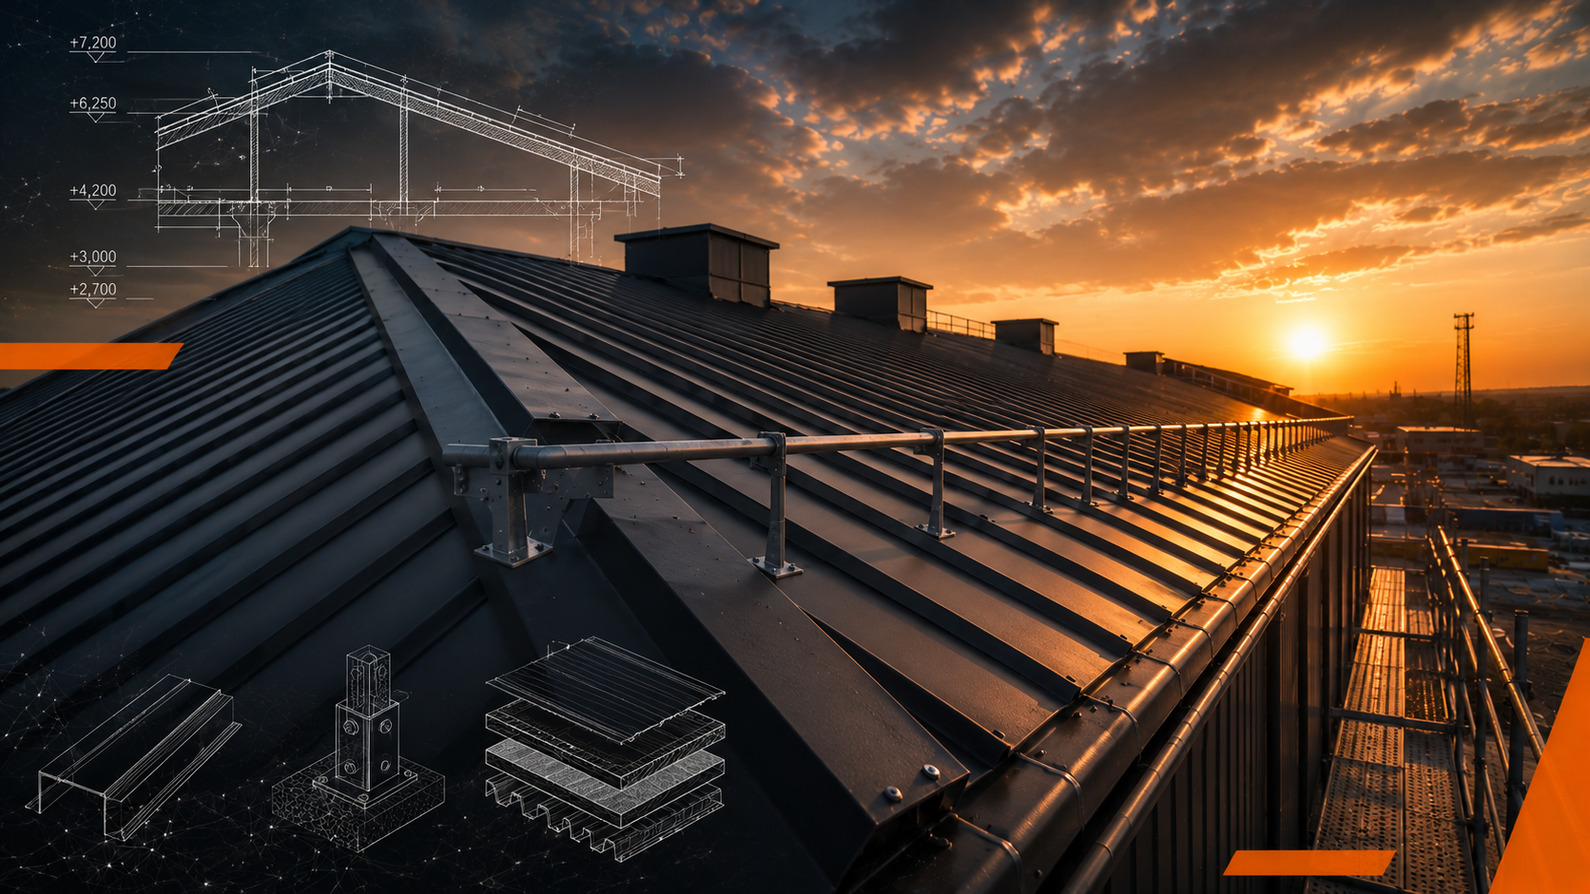
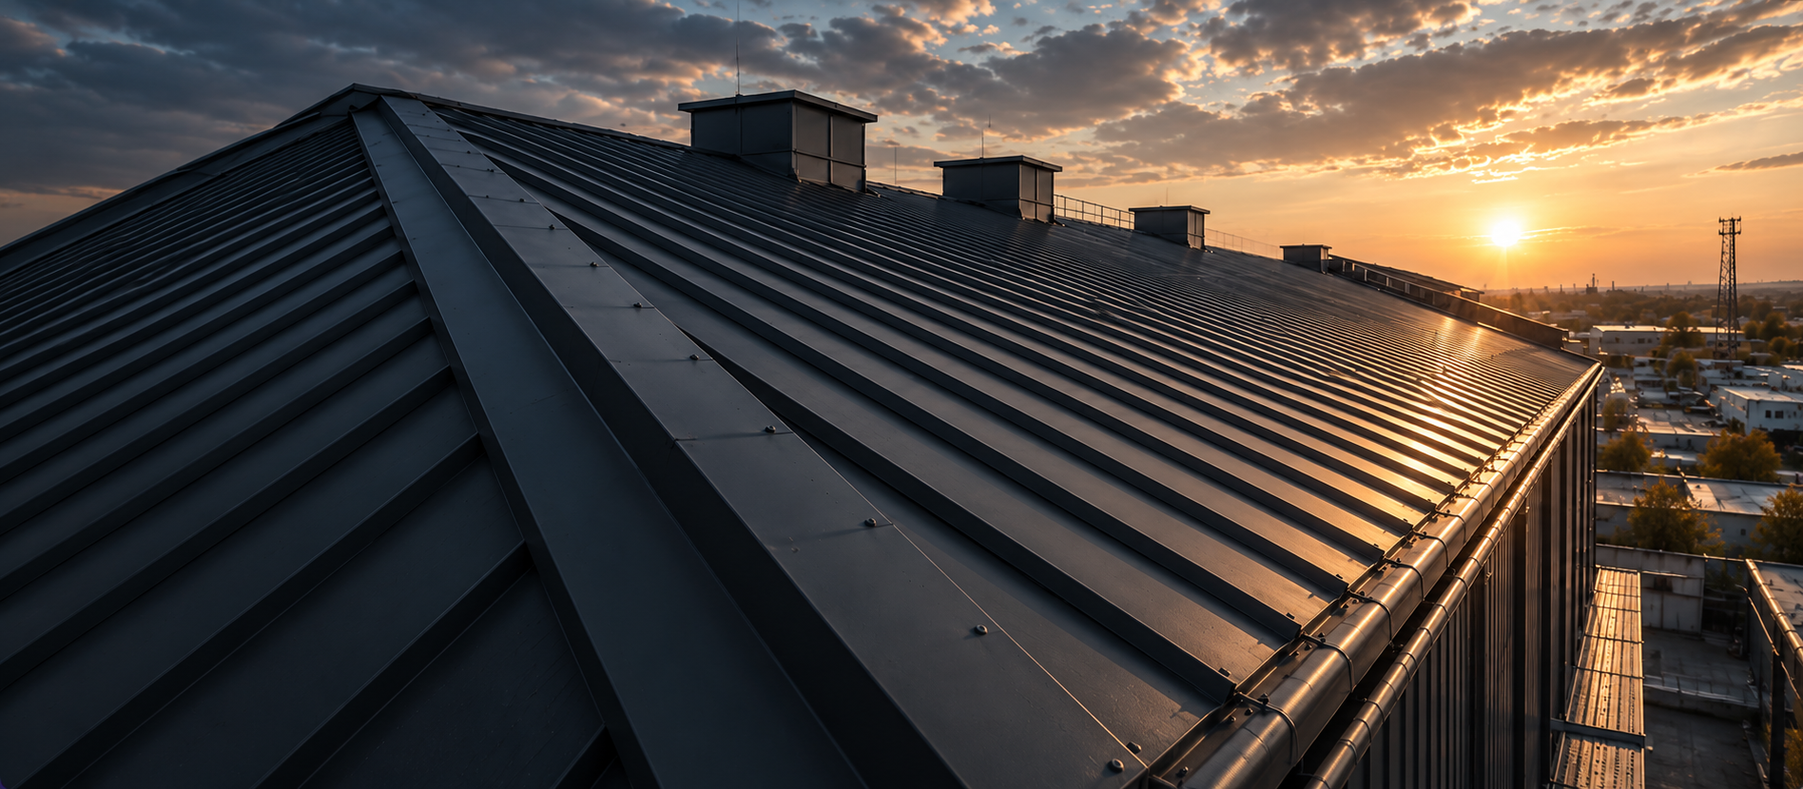
Add clean responsive hero renders to /napryamky (#155)
* feat(directions): add clean responsive hero photographs

* fix(directions): keep hangar roof apex in frame

* test: refresh reviewed visual baselines and verify responsive heroes

* test: wait for hydrated and fully painted hero slides

diff --git a/tests/e2e/directions-hero-sequence.spec.ts b/tests/e2e/directions-hero-sequence.spec.ts
@@ -16,9 +16,13 @@ test('directions static hero sequence crossfades in the approved order without v
     }
   });
 
+  await page.clock.install();
   await page.goto('/napryamky', { waitUntil: 'load' });
-
   const hero = page.locator('.directions-subhero');
+  // Deferred loading starts after hydration, which can take longer than the old 2 s
+  // source assertion under parallel load. Freeze only once the real carousel is ready.
+  await expect(hero.getByRole('button', { name: 'Пауза показу напрямів', exact: true })).toBeVisible();
+  await page.clock.pauseAt(await page.evaluate(() => Date.now() + 1000));
   const frames = hero.locator('img.directions-hero-sequence-image');
   await expect(frames).toHaveCount(5);
   await expect(hero.locator('video')).toHaveCount(0);
@@ -41,10 +45,10 @@ test('directions static hero sequence crossfades in the approved order without v
     null,
   ]);
 
-  // One slide lasts 6 s (UX pass 2026-10), so the second one is active within ~9 s.
+  // Advance one complete slide interval without depending on the machine's speed.
+  await page.clock.fastForward(6000);
   await expect.poll(
     () => frames.evaluateAll((images) => images.map((image) => image.classList.contains('is-active'))),
-    { timeout: 9_000 },
   ).toEqual([false, true, false, false, false]);
 
   // By the time slide 1 becomes active, slide 2 should already be unlocked one step ahead of
@@ -88,3 +92,79 @@ test('directions static hero sequence remains on the first image for reduced mot
       null,
     ]);
 });
+
+// Exercise actual decoded images, including later slides: a missing hashed variant or a landscape
+// selected on a tall screen otherwise looks like a blank/soft background without any build error.
+for (const viewport of [
+  { width: 320, height: 568 },
+  { width: 375, height: 812 },
+  { width: 390, height: 844 },
+  { width: 430, height: 932 },
+  { width: 768, height: 1024 },
+  { width: 820, height: 1180 },
+  { width: 844, height: 390 },
+  { width: 1024, height: 768 },
+  { width: 1280, height: 720 },
+  { width: 1366, height: 657 },
+  { width: 1920, height: 1080 },
+  { width: 2560, height: 1080 },
+]) {
+  test(`all five hero photographs load and fit at ${viewport.width}x${viewport.height}`, async ({ page }, testInfo) => {
+    // Five full crossfades and native-size screenshots need more than a single-route budget.
+    test.setTimeout(60_000);
+    await page.setViewportSize(viewport);
+    await page.emulateMedia({ reducedMotion: 'no-preference' });
+    await page.clock.install();
+    await page.goto('/napryamky', { waitUntil: 'load' });
+
+    const hero = page.locator('.directions-subhero');
+    await expect(hero.getByRole('button', { name: 'Пауза показу напрямів', exact: true })).toBeVisible();
+    // Let hydration and deferred loading complete first, then freeze between explicit ticks:
+    // screenshot encoding must not advance the real-time carousel on slower CI machines.
+    await page.clock.pauseAt(await page.evaluate(() => Date.now() + 1000));
+    const necessaryCookies = page.getByRole('button', { name: 'Лише необхідні', exact: true });
+    if (await necessaryCookies.isVisible()) await necessaryCookies.click();
+    const frames = hero.locator('img.directions-hero-sequence-image');
+    const portrait = viewport.width <= 1050 && viewport.height >= viewport.width;
+
+    for (let index = 0; index < sequenceNames.length; index++) {
+      const frame = frames.nth(index);
+      await expect(frame).toHaveClass(/is-active/);
+      await expect.poll(() => frame.evaluate((image: HTMLImageElement) => image.complete && image.naturalWidth > 0)).toBe(true);
+      await frame.evaluate((image: HTMLImageElement) => image.decode());
+      // Loading and the active class alone can pass before the crossfade has painted.
+      await expect(frame).toHaveCSS('opacity', '1');
+      const source = await frame.evaluate((image: HTMLImageElement) => image.currentSrc);
+      expect(source).toContain(`directions-sequence-${sequenceNames[index]}-`);
+      expect(source.includes('-portrait-')).toBe(portrait);
+
+      const suffix = index === 0 ? '' : `-${sequenceNames[index]}`;
+      await page.screenshot({
+        path: testInfo.outputPath(`directions-${viewport.width}x${viewport.height}${suffix}.png`),
+        animations: 'disabled',
+        scale: 'css',
+      });
+      if (index < sequenceNames.length - 1) await page.clock.fastForward(6000);
+    }
+
+    expect(await page.evaluate(() => document.documentElement.scrollWidth <= window.innerWidth + 1)).toBe(true);
+    const heroBox = await hero.boundingBox();
+    for (const link of await hero.locator('.directions-hero-actions a:visible').all()) {
+      const box = await link.boundingBox();
+      expect(box).not.toBeNull();
+      expect(box!.x).toBeGreaterThanOrEqual(0);
+      expect(box!.x + box!.width).toBeLessThanOrEqual(viewport.width + 1);
+      expect(box!.y + box!.height).toBeLessThanOrEqual(heroBox!.y + heroBox!.height);
+    }
+    const pause = hero.locator('.hero-video-control');
+    expect((await pause.boundingBox())!.height).toBeGreaterThanOrEqual(44);
+    await pause.click();
+    await expect(pause).toHaveAccessibleName('Відтворити показ напрямів');
+    await page.clock.fastForward(12_000);
+    await expect(frames.last()).toHaveClass(/is-active/);
+    await pause.press('Space');
+    await expect(pause).toHaveAccessibleName('Пауза показу напрямів');
+    await page.clock.fastForward(6000);
+    await expect(frames.first()).toHaveClass(/is-active/);
+  });
+}

diff --git a/app/data/directionsHeroSequenceManifest.ts b/app/data/directionsHeroSequenceManifest.ts
@@ -1,47 +1,65 @@
 export type DirectionsHeroSequenceAsset = {
   fallbackSrc: string;
   srcSet: string;
+  portraitSrcSet: string;
+  width: number;
+  height: number;
   focalPosition: string;
   mobileFocalPosition: string;
 };
 
-const responsiveSrcSet = (name: string, variants: { w480: string; w768: string; w1200: string; w1536: string }) =>
-  [
-    `/media-responsive/directions-sequence-${name}-480w.${variants.w480}.webp 480w`,
-    `/media-responsive/directions-sequence-${name}-768w.${variants.w768}.webp 768w`,
-    `/media-responsive/directions-sequence-${name}-1200w.${variants.w1200}.webp 1200w`,
-    `/media-responsive/directions-sequence-${name}-1536w.${variants.w1536}.webp 1536w`,
-  ].join(', ');
+type ResponsiveVariants = readonly (readonly [width: number, hash: string])[];
+
+const responsiveSrcSet = (name: string, variants: ResponsiveVariants, portrait = false) =>
+  variants.map(([width, hash]) =>
+    `/media-responsive/directions-sequence-${name}${portrait ? '-portrait' : ''}-${width}w.${hash}.webp ${width}w`,
+  ).join(', ');
 
 export const directionsHeroSequenceAssets: readonly DirectionsHeroSequenceAsset[] = [
   {
-    fallbackSrc: '/media-responsive/directions-sequence-angary-1536w.ec149673.webp',
-    srcSet: responsiveSrcSet('angary', { w480: '6d4f7f9b', w768: 'c246316c', w1200: '16a5481c', w1536: 'ec149673' }),
-    focalPosition: '55% center',
-    mobileFocalPosition: '58% center',
+    fallbackSrc: '/media-responsive/directions-sequence-angary-1536w.3c8e8cc9.webp',
+    srcSet: responsiveSrcSet('angary', [[480, '94e4a740'], [768, 'ca3d62f7'], [1200, '452a338b'], [1536, '3c8e8cc9'], [1896, '050ba3f4']]),
+    portraitSrcSet: responsiveSrcSet('angary', [[320, '41c00eaa'], [480, 'eb1e77b6'], [622, '6e4983de']], true),
+    width: 1896,
+    height: 830,
+    // Preserve the sky above the roof apex when wide screens crop the image vertically.
+    focalPosition: '55% top',
+    mobileFocalPosition: '50% top',
   },
   {
-    fallbackSrc: '/media-responsive/directions-sequence-zernoskhovyshcha-1536w.f2e9e6ee.webp',
-    srcSet: responsiveSrcSet('zernoskhovyshcha', { w480: 'b0e41daa', w768: '6c117447', w1200: '3d667f36', w1536: 'f2e9e6ee' }),
-    focalPosition: '57% center',
-    mobileFocalPosition: '60% center',
+    fallbackSrc: '/media-responsive/directions-sequence-zernoskhovyshcha-1536w.6945f8a6.webp',
+    srcSet: responsiveSrcSet('zernoskhovyshcha', [[480, 'fa55a2fd'], [768, 'd080dd16'], [1200, '18ffadd1'], [1536, '6945f8a6'], [1897, 'ccffd996']]),
+    portraitSrcSet: responsiveSrcSet('zernoskhovyshcha', [[320, '0a144acc'], [480, '9510e977'], [622, '06076313']], true),
+    width: 1897,
+    height: 829,
+    focalPosition: '60% center',
+    mobileFocalPosition: '50% center',
   },
   {
-    fallbackSrc: '/media-responsive/directions-sequence-metalokonstruktsii-1536w.f68a46a9.webp',
-    srcSet: responsiveSrcSet('metalokonstruktsii', { w480: 'dae71d68', w768: 'a531b57e', w1200: '6871257a', w1536: 'f68a46a9' }),
-    focalPosition: '55% center',
-    mobileFocalPosition: '57% center',
+    fallbackSrc: '/media-responsive/directions-sequence-metalokonstruktsii-1536w.8a84480d.webp',
+    srcSet: responsiveSrcSet('metalokonstruktsii', [[480, '85ea0d2b'], [768, '9abe6e6d'], [1200, '33589eca'], [1536, '8a84480d'], [1896, '0ac262e3']]),
+    portraitSrcSet: responsiveSrcSet('metalokonstruktsii', [[320, 'b56d8ce5'], [480, '897afad8'], [622, 'd7fff708']], true),
+    width: 1896,
+    height: 830,
+    focalPosition: '58% center',
+    mobileFocalPosition: '50% center',
   },
   {
-    fallbackSrc: '/media-responsive/directions-sequence-betonni-roboty-1536w.4aea6812.webp',
-    srcSet: responsiveSrcSet('betonni-roboty', { w480: 'dda69ddd', w768: '376a40f4', w1200: '73b67512', w1536: '4aea6812' }),
-    focalPosition: '53% center',
-    mobileFocalPosition: '55% center',
+    fallbackSrc: '/media-responsive/directions-sequence-betonni-roboty-1536w.1a79bbe0.webp',
+    srcSet: responsiveSrcSet('betonni-roboty', [[480, '3adf44c0'], [768, 'ad38b775'], [1200, '87a74886'], [1536, '1a79bbe0'], [1896, '29919ad1']]),
+    portraitSrcSet: responsiveSrcSet('betonni-roboty', [[320, '20cf5818'], [480, '88e0e3eb'], [622, 'b8fd147d']], true),
+    width: 1896,
+    height: 830,
+    focalPosition: '72% center',
+    mobileFocalPosition: '50% center',
   },
   {
-    fallbackSrc: '/media-responsive/directions-sequence-pokrivelni-roboty-1536w.527623f0.webp',
-    srcSet: responsiveSrcSet('pokrivelni-roboty', { w480: 'a8d86378', w768: 'b79e923a', w1200: '40a54a55', w1536: '527623f0' }),
-    focalPosition: '55% center',
-    mobileFocalPosition: '58% center',
+    fallbackSrc: '/media-responsive/directions-sequence-pokrivelni-roboty-1536w.622e9f02.webp',
+    srcSet: responsiveSrcSet('pokrivelni-roboty', [[480, '33d6df46'], [768, '90478a2d'], [1200, 'cc2f8b08'], [1536, '622e9f02'], [1896, '6983fba3']]),
+    portraitSrcSet: responsiveSrcSet('pokrivelni-roboty', [[320, '7eb1ec0a'], [480, 'fa139c18'], [622, '642d338e']], true),
+    width: 1896,
+    height: 830,
+    focalPosition: '60% center',
+    mobileFocalPosition: '50% center',
   },
 ];

diff --git a/app/napryamky/directions.css b/app/napryamky/directions.css
@@ -11,11 +11,33 @@
 .directions-page .directions-subhero-side > p { max-width: 640px; color: color-mix(in srgb, var(--color-dark-text) 88%, transparent); font-size: var(--hero-lead); line-height: 1.7; }
 .directions-page .directions-hero-actions { gap: 18px 36px; margin-top: var(--hero-gap-actions); }
 .directions-page .directions-hero-actions :is(.subhero-side-cta, .text-link, .hero-call) { margin: 0; }
+/* The clean photographs carry the visual detail; no blueprint grid or blur over their geometry. */
+.directions-page .directions-hero-sequence-image { filter: saturate(.72) contrast(1.03); }
+/* Keep the hangar apex below the fixed header, as on the individual direction pages. */
+.directions-page .directions-hero-sequence-image[src*="directions-sequence-angary-"] {
+  top: 101px;
+  height: calc(100% - 101px);
+}
+@media (max-width: 760px) {
+  .directions-page .directions-hero-sequence-image[src*="directions-sequence-angary-"] {
+    top: 77px;
+    height: calc(100% - 77px);
+  }
+}
 /* Dark under the words on the left, the slide open on the right, a little shade at the top for the slide caption */
 .directions-page .directions-subhero .subhero-overlay {
   background:
-    linear-gradient(90deg, rgba(10, 11, 12, .92) 0%, rgba(10, 11, 12, .8) 42%, rgba(10, 11, 12, .34) 100%),
-    linear-gradient(0deg, rgba(10, 11, 12, .82) 0%, transparent 50%, rgba(10, 11, 12, .5) 100%);
+    linear-gradient(90deg, rgba(10, 11, 12, .9) 0%, rgba(10, 11, 12, .76) 40%, rgba(10, 11, 12, .28) 72%, rgba(10, 11, 12, .14) 100%),
+    linear-gradient(0deg, rgba(10, 11, 12, .76) 0%, transparent 50%, rgba(10, 11, 12, .38) 100%);
+}
+/* Portrait art direction preserves the subject and enough pixels for a tall phone/tablet hero.
+   Text spans the frame on these screens, so it needs shade across the entire image. */
+@media (max-width: 1050px) and (orientation: portrait) {
+  .directions-page .directions-subhero .subhero-overlay {
+    background:
+      linear-gradient(90deg, rgba(10, 11, 12, .64), rgba(10, 11, 12, .5)),
+      linear-gradient(180deg, rgba(10, 11, 12, .15) 0%, rgba(10, 11, 12, .32) 36%, rgba(10, 11, 12, .82) 100%);
+  }
 }
 /* Clear of the window's edges at every height: the hero standard (globals.css --hero-*) sizes by the window's height */
 /* Which direction the slide shows, top right: five bars (the current one filling for the slide's 6 s) and its name */

diff --git a/app/napryamky/page.tsx b/app/napryamky/page.tsx
@@ -4,6 +4,7 @@ import { ConversationSection } from '../components/ConversationSection';
 import { DirectionsCatalog, type CatalogItem } from '../components/directions/DirectionsCatalog';
 import { DirectionsKey } from '../components/home-v2/DirectionsKey';
 import { DirectionsHeroImageSequence } from '../components/DirectionsHeroImageSequence';
+import { directionsHeroSequenceAssets } from '../data/directionsHeroSequenceManifest';
 import { brandedTitle, createPageMetadata } from '../lib/seo';
 import { siteRoutes } from '../data/navigation';
 import { company } from '../data/company';
@@ -47,7 +48,7 @@ export const metadata = createPageMetadata({
   description: 'Ангари, зерносховища, металоконструкції, бетонні й покрівельні роботи у Дніпрі. Оберіть напрям або опишіть завдання, якщо об’єкт поєднує кілька видів робіт.',
   socialTitle: `Оберіть напрям будівництва — ${company.name}`,
   socialDescription: 'П’ять напрямів промислового будівництва у Дніпрі. Один об’єкт може поєднувати кілька — підкажемо, які саме.',
-  image: '/media-responsive/directions-sequence-angary-1200w.16a5481c.webp',
+  image: directionsHeroSequenceAssets[0].fallbackSrc,
   imageAlt: `Промислові напрями будівництва ${company.name} — металевий каркас на будівельному майданчику`,
 });
 
@@ -58,7 +59,6 @@ export default function DirectionsPage() {
       <section className="subhero subhero-media directions-subhero">
         <DirectionsHeroImageSequence />
         <div className="subhero-overlay" />
-        <div className="subhero-grid" aria-hidden="true" />
         <div className="shell subhero-layout">
           <div className="subhero-copy">
             <Breadcrumbs items={[{ label: 'Головна', href: siteRoutes.home }, { label: 'Напрямки', href: siteRoutes.directions }]} />

diff --git a/app/components/DirectionsHeroImageSequence.tsx b/app/components/DirectionsHeroImageSequence.tsx
@@ -7,6 +7,10 @@ import { useDeferredMedia } from '../hooks/useDeferredMedia';
 
 const CLIP_DURATION_MS = 6000; // UX pass 2026-10: 3 s per slide was too fast to read the indicator and the picture
 const FADE_DURATION_MS = 2000;
+// Cover scales to the hero's height as well as its width; 100vw alone downloaded a tiny,
+// heavily stretched landscape on tall screens. Portrait sources keep a native-height crop.
+const LANDSCAPE_SIZES = '(min-aspect-ratio: 23/10) 100vw, 230svh';
+const PORTRAIT_SIZES = '(max-width: 760px) 640px, 100vw';
 const pad = (value: number) => String(value).padStart(2, '0');
 
 /** The direction a slide shows, by the asset's own file name (the sequence follows the directions' order). */
@@ -62,16 +66,17 @@ export function DirectionsHeroImageSequence() {
 
         return (
           <picture key={asset.fallbackSrc}>
-            {shouldAttachSource && <source type="image/webp" srcSet={asset.srcSet} sizes="100vw" />}
+            {shouldAttachSource && <source media="(max-width: 1050px) and (orientation: portrait)" type="image/webp" srcSet={asset.portraitSrcSet} sizes={PORTRAIT_SIZES} />}
+            {shouldAttachSource && <source type="image/webp" srcSet={asset.srcSet} sizes={LANDSCAPE_SIZES} />}
             <img
               ref={index === 0 ? firstImageRef : undefined}
               aria-hidden="true"
               className={`directions-hero-sequence-image${index === visibleIndex ? ' is-active' : ''}`}
               src={shouldAttachSource ? asset.fallbackSrc : undefined}
               alt=""
-              width={1672}
-              height={941}
-              sizes="100vw"
+              width={asset.width}
+              height={asset.height}
+              sizes={LANDSCAPE_SIZES}
               loading={index === 0 ? 'eager' : 'lazy'}
               fetchPriority={index === 0 ? 'high' : 'auto'}
               decoding="async"

diff --git a/scripts/generate-direction-hero-images.py b/scripts/generate-direction-hero-images.py
@@ -1,10 +1,10 @@
 #!/usr/bin/env python3
-"""Generate uncropped responsive WebP variants for full-bleed hero artwork (direction pages, /yak-pratsyuiemo).
+"""Generate responsive WebP variants for full-bleed hero artwork (direction pages, /yak-pratsyuiemo).
 
 The source images in public/media/*-source/ are the approved artwork.
-This script only changes encoding and dimensions: it never crops, composites, or
-otherwise edits the supplied images. Output filenames are content-hashed so they
-can use the immutable media-responsive cache policy.
+Landscape variants preserve the complete source. The /napryamky sequence also
+gets portrait crops for tall screens; source artwork is never modified.
+Output filenames are content-hashed for the immutable media-responsive cache policy.
 """
 
 import hashlib
@@ -21,6 +21,15 @@ WIDTHS = [480, 768, 1200, 1536]
 # SSIM 0.975–0.985 against the lossless resize (q90: 0.983–0.990); 1:1 crops show no visible difference, while q80
 # already smooths the fine grain in dark areas. The heroes are also shown desaturated under a dark overlay.
 QUALITY = 85
+# Horizontal object-position within the excess width of a 3:4 portrait crop.
+# Keep the frame, silos, reinforcement and roof detail visible on tall screens.
+SEQUENCE_PORTRAIT_POSITIONS = {
+    "angary": .66,
+    "zernoskhovyshcha": .65,
+    "metalokonstruktsii": .64,
+    "betonni-roboty": .78,
+    "pokrivelni-roboty": .67,
+}
 IMAGE_SETS = [
     ("public/media/direction-hero-source", "direction-hero", [
         "angary.png",
@@ -42,6 +51,21 @@ IMAGE_SETS = [
 ]
 
 
+def emit_variants(image, prefix, base, widths, results) -> None:
+    for width in widths:
+        target_width = min(width, image.width)
+        target_height = round(image.height * (target_width / image.width))
+        resized = image.resize((target_width, target_height), Image.Resampling.LANCZOS)
+        buffer = io.BytesIO()
+        resized.save(buffer, format="WEBP", quality=QUALITY, method=6)
+        encoded = buffer.getvalue()
+        digest = hashlib.sha256(encoded).hexdigest()[:8]
+        output_name = f"{prefix}-{base}-{target_width}w.{digest}.webp"
+        with open(os.path.join(OUT_DIR, output_name), "wb") as output:
+            output.write(encoded)
+        results.append((f"{prefix}/{base}", output_name, len(encoded)))
+
+
 def main() -> None:
     # `--only <prefix>` regenerates one set, so adding artwork never re-encodes the others
     only = sys.argv[sys.argv.index("--only") + 1] if "--only" in sys.argv else None
@@ -55,23 +79,14 @@ def main() -> None:
             source_path = os.path.join(source_dir, filename)
             base = filename.rsplit(".", 1)[0]
             image = Image.open(source_path).convert("RGB")
-            source_width, source_height = image.size
-
-            for width in WIDTHS:
-                target_width = min(width, source_width)
-                target_height = round(source_height * (target_width / source_width))
-                resized = image.resize((target_width, target_height), Image.Resampling.LANCZOS)
-
-                buffer = io.BytesIO()
-                resized.save(buffer, format="WEBP", quality=QUALITY, method=6)
-                encoded = buffer.getvalue()
-                digest = hashlib.sha256(encoded).hexdigest()[:8]
-                output_name = f"{output_prefix}-{base}-{width}w.{digest}.webp"
-
-                with open(os.path.join(OUT_DIR, output_name), "wb") as output:
-                    output.write(encoded)
-
-                results.append((f"{output_prefix}/{filename}", output_name, len(encoded)))
+            is_sequence = output_prefix == "directions-sequence"
+            widths = sorted(set(WIDTHS + ([image.width] if is_sequence else [])))
+            emit_variants(image, output_prefix, base, widths, results)
+            if is_sequence:
+                crop_width = min(image.width, round(image.height * 3 / 4))
+                left = round((image.width - crop_width) * SEQUENCE_PORTRAIT_POSITIONS[base])
+                portrait = image.crop((left, 0, left + crop_width, image.height))
+                emit_variants(portrait, output_prefix, base + "-portrait", [320, 480, crop_width], results)
 
     total_bytes = sum(result[2] for result in results)
     print(f"Generated {len(results)} files, total {total_bytes / 1024:.1f} KiB")

diff --git a/docs/directions-hero-qa.md b/docs/directions-hero-qa.md
@@ -1,0 +1,19 @@
+# Directions hero and visual baseline review — 2026-10-07
+
+The five clean `/napryamky` photographs and the revised hangar framing were reviewed on the local preview. The hangar has sky above its roof apex and sits below the fixed header. Portrait sources keep the subject visible on tall phones and tablets.
+
+## Responsive coverage
+
+`directions-hero-sequence.spec.ts` exercises all five decoded slides at 320×568, 375×812, 390×844, 430×932, 768×1024, 820×1180, 844×390, 1024×768, 1280×720, 1366×657, 1920×1080 and 2560×1080. It checks source selection, horizontal overflow, action bounds, the pause touch target, pausing across two slide intervals, and resuming with the keyboard. Each slide has a screenshot for visual inspection, captured only after image decoding and full crossfade opacity. The hero rhythm suite also checks spacing and the direction-list anchor.
+
+The final desktop/mobile run passed all 32 cases. The clock is paused after hydration, so slow screenshot encoding cannot advance the carousel between explicit ticks. The focused visual run passed all 15 inquiry/process cases with the reviewed macOS baselines. TypeScript, targeted ESLint and diff checks passed. Light and dark hero layouts were also reviewed on phone and short-laptop viewports.
+
+## Reviewed baseline refresh
+
+PR #155 CI run `37590530644`, head `1ce1b67d344e5f7f3f92f2be7c3bd8f247bc3f4a`, failed 13 screenshot comparisons. They all concern the inquiry block and `/yak-pratsyuiemo`, which were already changed by the merged owner-notes redesign, `37d1dee` (#152). None of those application files differs between that base and this PR.
+
+The before/after pairs in `changed-area-visual-diff` were reviewed: the smaller call button, the “Ви · Ми” route with its result drawings, the grouped responsibility table, the cost/schedule/change sheets, and the scope annotation alignment match that redesign. All three CI captures of each failed screenshot are byte-identical.
+
+Only the 13 reviewed Linux baselines were copied from that same-head CI artifact. The matching macOS inquiry baselines were refreshed locally; the previously missing macOS process baselines were recorded and compared with the Linux layout. Screenshot tolerances and assertions are unchanged.
+
+No application layout outside the directions hero is changed by this baseline repair. The PR is left for the owner to merge.
